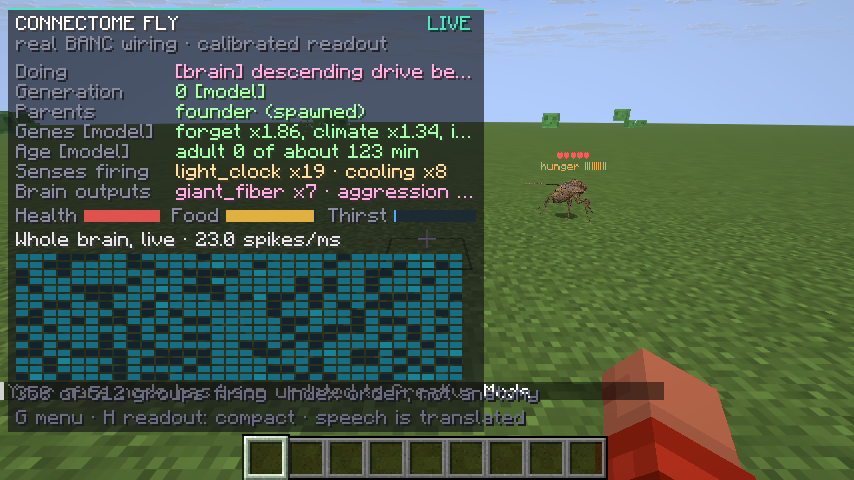
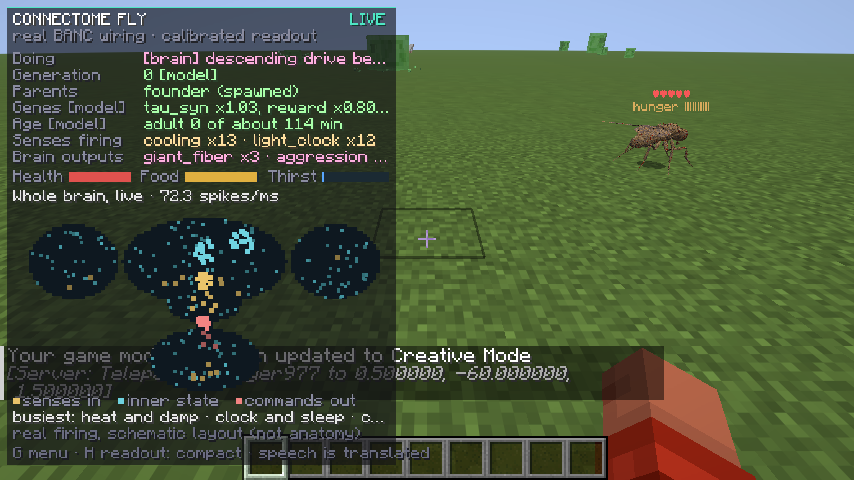
Brain picture in the readout (named regions from identified neurons, live), fix G and H key codes for 26.3 input, key test
Claude-Session: https://claude.ai/code/session_01LChwCBr4nFoxPfyeu3pZom

diff --git a/src/client/java/io/flyproject/connectomefly/client/BrainPicture.java b/src/client/java/io/flyproject/connectomefly/client/BrainPicture.java
@@ -1,0 +1,172 @@
+package io.flyproject.connectomefly.client;
+
+import io.flyproject.connectomefly.neural.BrainRegions;
+import java.util.Random;
+import net.minecraft.client.gui.Font;
+import net.minecraft.client.gui.GuiGraphicsExtractor;
+
+/**
+ * The readout's live brain picture: a schematic fly nervous system seen from the front (two optic lobes, the
+ * central brain, the neck, the nerve cord in the body) with dots that light up from the running brain.
+ * What is real: every dot's brightness comes from the firing of real neurons in the last fraction of a second.
+ * What is not: where the dots sit. The connectome data shipped with the mod has no neuron positions, so the
+ * layout is a drawing, and the readout says so.
+ */
+public final class BrainPicture {
+   public static final int W = 236;
+   public static final int H = 112;
+   // silhouette: ellipses {cx, cy, rx, ry}
+   private static final int[][] SHAPES = {{118, 32, 50, 27}, {38, 32, 27, 23}, {198, 32, 27, 23}, {118, 58, 22, 11}, {118, 70, 5, 6}, {118, 92, 34, 19}};
+   private static final int[] KIND_COLOR = {0xFFE9C46A, 0xFF6FD3E0, 0xFFF28482};
+   private static final int DOTS = 16;
+   private static int[] mapX;
+   private static int[] mapY;
+   private static int[][] dotX;
+   private static int[][] dotY;
+
+   private BrainPicture() {
+   }
+
+   private static boolean inside(int x, int y) {
+      for (int[] s : SHAPES) {
+         double dx = (x - s[0]) / (double)s[2];
+         double dy = (y - s[1]) / (double)s[3];
+         if (dx * dx + dy * dy <= 1.0) {
+            return true;
+         }
+      }
+
+      return false;
+   }
+
+   private static void layout(int bins) {
+      if (mapX != null && mapX.length == bins) {
+         return;
+      }
+
+      Random r = new Random(158262L);
+      mapX = new int[bins];
+      mapY = new int[bins];
+
+      for (int i = 0; i < bins; i++) {
+         int x;
+         int y;
+
+         do {
+            x = 8 + r.nextInt(W - 16);
+            y = 4 + r.nextInt(H - 6);
+         } while (!inside(x, y));
+
+         mapX[i] = x;
+         mapY[i] = y;
+      }
+
+      BrainRegions.Region[] rg = BrainRegions.REGIONS;
+      dotX = new int[rg.length][DOTS];
+      dotY = new int[rg.length][DOTS];
+
+      for (int k = 0; k < rg.length; k++) {
+         for (int j = 0; j < DOTS; j++) {
+            double a = r.nextDouble() * Math.PI * 2.0;
+            double d = Math.sqrt(r.nextDouble()) * rg[k].r();
+            dotX[k][j] = rg[k].x() + (int)Math.round(Math.cos(a) * d);
+            dotY[k][j] = rg[k].y() + (int)Math.round(Math.sin(a) * d * 0.9);
+         }
+      }
+   }
+
+   private static int scale(int argb, float f) {
+      int r = (int)((argb >> 16 & 0xFF) * f);
+      int g = (int)((argb >> 8 & 0xFF) * f);
+      int b = (int)((argb & 0xFF) * f);
+      return 0xFF000000 | r << 16 | g << 8 | b;
+   }
+
+   /** Draws the picture with its top-left at (x, y) and returns the names of the busiest regions, e.g. "left eye · wings". */
+   public static String draw(GuiGraphicsExtractor ctx, int x, int y, String map, String regions) {
+      layout(map.length());
+      // silhouette, two-pixel rows
+      for (int row = 0; row < H; row += 2) {
+         int start = -1;
+
+         for (int col = 0; col <= W; col += 2) {
+            boolean in = col < W && inside(col, row);
+            if (in && start < 0) {
+               start = col;
+            } else if (!in && start >= 0) {
+               ctx.fill(x + start, y + row, x + col, y + row + 2, 0xFF0E1820);
+               start = -1;
+            }
+         }
+      }
+
+      long tick = System.currentTimeMillis() / 110L;
+      // the whole brain: 512 groups of about 309 neurons each, as faint sparks
+      for (int i = 0; i < map.length(); i++) {
+         int level = map.charAt(i) - 'a';
+         if (level > 0) {
+            long h = (i * 0x9E3779B97F4A7C15L ^ tick * 0xC2B2AE3D27D4EB4FL) >>> 40;
+            if ((int)(h % 16L) < level + 4) {
+               float f = 0.5F + 0.5F * Math.min(1.0F, level / 10.0F);
+               ctx.fill(x + mapX[i], y + mapY[i], x + mapX[i] + 2, y + mapY[i] + 2, scale(0xFF5AC8D8, f));
+            }
+         }
+      }
+
+      // named regions: more and brighter dots the faster their neurons fire
+      BrainRegions.Region[] rg = BrainRegions.REGIONS;
+      int best1 = -1;
+      int best2 = -1;
+      int best3 = -1;
+
+      for (int k = 0; k < rg.length && k < regions.length(); k++) {
+         int level = regions.charAt(k) - 'a';
+         if (level <= 0) {
+            continue;
+         }
+
+         if (best1 < 0 || level > regions.charAt(best1) - 'a') {
+            best3 = best2;
+            best2 = best1;
+            best1 = k;
+         } else if (best2 < 0 || level > regions.charAt(best2) - 'a') {
+            best3 = best2;
+            best2 = k;
+         } else if (best3 < 0 || level > regions.charAt(best3) - 'a') {
+            best3 = k;
+         }
+
+         int color = KIND_COLOR[rg[k].kind()];
+
+         for (int j = 0; j < DOTS; j++) {
+            long h = ((k * 31L + j) * 0x9E3779B97F4A7C15L ^ tick * 0xD6E8FEB86659FD93L) >>> 40;
+            if ((int)(h % 15L) < level) {
+               float f = 0.55F + 0.45F * Math.min(1.0F, level / 12.0F);
+               ctx.fill(x + dotX[k][j] - 1, y + dotY[k][j] - 1, x + dotX[k][j] + 2, y + dotY[k][j] + 2, scale(color, f));
+            }
+         }
+      }
+
+      StringBuilder top = new StringBuilder();
+
+      for (int k : new int[]{best1, best2, best3}) {
+         if (k >= 0) {
+            top.append(top.length() > 0 ? " · " : "").append(rg[k].name());
+         }
+      }
+
+      return top.toString();
+   }
+
+   /** The three-colour key under the picture. */
+   public static void legend(GuiGraphicsExtractor ctx, Font tr, int x, int y) {
+      String[] names = {"senses in", "inner state", "commands out"};
+      int cx = x;
+
+      for (int i = 0; i < 3; i++) {
+         ctx.fill(cx, y + 2, cx + 4, y + 6, KIND_COLOR[i]);
+         ctx.text(tr, names[i], cx + 6, y, -7697248);
+         cx += tr.width(names[i]) + 16;
+      }
+   }
+}

diff --git a/src/main/java/io/flyproject/connectomefly/neural/BrainRegions.java b/src/main/java/io/flyproject/connectomefly/neural/BrainRegions.java
@@ -1,0 +1,63 @@
+package io.flyproject.connectomefly.neural;
+
+/**
+ * Named groups of real neurons for the readout's brain picture. Each region is a set of the mod's sensory channels
+ * (brain_channels.json) and output populations (brain_outputs.json), so the ACTIVITY shown is that of real, identified
+ * neurons. The POSITIONS in the picture are a schematic of a fly's nervous system; the data has no neuron coordinates.
+ */
+public final class BrainRegions {
+   public record Region(String name, int kind, int x, int y, int r, String[] channels, String[] outputs) {}
+
+   /** kind: 0 = senses coming in, 1 = internal state, 2 = commands and muscles going out */
+   public static final Region[] REGIONS = {
+      new Region("left eye", 0, 38, 32, 19, new String[]{"visual", "motion_prog_left", "motion_reg_left", "small_object_left", "landmark_left"}, new String[]{"lc_small_left", "lc_bar_left", "hs_left", "vs_left"}),
+      new Region("right eye", 0, 198, 32, 19, new String[]{"visual", "motion_prog_right", "motion_reg_right", "small_object_right", "landmark_right"}, new String[]{"lc_small_right", "lc_bar_right", "hs_right", "vs_right"}),
+      new Region("smell", 0, 102, 47, 8, new String[]{"olf_food", "olf_fruit", "olf_co2", "pheromone"}, new String[0]),
+      new Region("hearing and wind", 0, 134, 47, 8, new String[]{"auditory", "song", "wind"}, new String[0]),
+      new Region("heat and damp", 0, 118, 44, 5, new String[]{"heating", "cooling", "humid", "dry"}, new String[0]),
+      new Region("memory (mushroom body)", 1, 96, 22, 10, new String[]{"reward", "punishment"}, new String[]{"mbon_avoid", "mbon_approach", "pam", "ppl1"}),
+      new Region("compass", 1, 118, 26, 8, new String[]{"pen_left", "pen_right"}, new String[]{"epg", "pfl3_left", "pfl3_right"}),
+      new Region("clock and sleep", 1, 141, 20, 8, new String[]{"light_clock", "clock_morning", "clock_evening", "sleep_pressure"}, new String[]{"clock", "clock_morning", "clock_evening", "dfb_sleep"}),
+      new Region("courtship and aggression", 1, 140, 35, 6, new String[]{"song_pc1", "aggression_pc1"}, new String[]{"pc1_receptive", "pc1_aggr", "vpoen"}),
+      new Region("taste and feeding", 0, 118, 59, 10, new String[]{"gust_sugar", "taste_sugar_labellum", "taste_bitter_labellum", "taste_water", "nutrient"}, new String[]{"mn_proboscis", "mn_pharynx", "ipc"}),
+      new Region("commands to the body", 2, 118, 70, 4, new String[0], new String[]{"dn_turn_left", "dn_turn_right", "dn_giant_fiber", "dn_backward", "dn_courtship", "dn_aggression", "dn_egg_laying", "dn_p13", "mn_neck"}),
+      new Region("wings", 2, 118, 81, 8, new String[0], new String[]{"mn_wing_power", "mn_wing_steer", "mn_haltere"}),
+      new Region("left legs", 2, 102, 91, 9, new String[0], new String[]{"mn_leg_front_left", "mn_leg_middle_left", "mn_leg_hind_left"}),
+      new Region("right legs", 2, 134, 91, 9, new String[0], new String[]{"mn_leg_front_right", "mn_leg_middle_right", "mn_leg_hind_right"}),
+      new Region("escape jump", 2, 118, 90, 4, new String[0], new String[]{"mn_jump"}),
+      new Region("touch and pain", 0, 118, 100, 8, new String[]{"tactile", "aversive", "taste_sugar_leg", "taste_bitter_leg"}, new String[0]),
+      new Region("egg laying", 2, 118, 106, 3, new String[0], new String[]{"mn_ovulation"}),
+   };
+
+   private BrainRegions() {
+   }
+
+   /** One character per region: 'a' = silent up to 'p' = about 13 Hz or more per neuron (log scale), busiest member of the region. */
+   public static String encode(WholeBrain.Data d, WholeBrain.Loco l) {
+      char[] c = new char[REGIONS.length];
+
+      for (int i = 0; i < c.length; i++) {
+         Region r = REGIONS[i];
+         float hz = 0.0F;
+
+         for (String ch : r.channels) {
+            int k = d.channel(ch);
+            if (k >= 0 && k < l.chanSpikes.length && d.chanIdx[k].length > 0) {
+               hz = Math.max(hz, l.chanSpikes[k] * 1000.0F / d.chanIdx[k].length);
+            }
+         }
+
+         for (String o : r.outputs) {
+            int k = d.out(o);
+            if (k >= 0 && k < l.outRate.length && d.outIdx[k].length > 0) {
+               hz = Math.max(hz, l.outRate[k] * 1000.0F / d.outIdx[k].length);
+            }
+         }
+
+         int level = (int)Math.round(4.0 * Math.log(1.0 + hz) / Math.log(2.0));
+         c[i] = (char)(97 + Math.max(0, Math.min(15, level)));
+      }
+
+      return new String(c);
+   }
+}

diff --git a/src/main/java/io/flyproject/connectomefly/entity/ConnectomeFlyEntity.java b/src/main/java/io/flyproject/connectomefly/entity/ConnectomeFlyEntity.java
@@ -68,6 +68,7 @@ public class ConnectomeFlyEntity extends PathfinderMob {
    private static final EntityDataAccessor<Byte> BODY = SynchedEntityData.defineId(ConnectomeFlyEntity.class, EntityDataSerializers.BYTE);
    private static final EntityDataAccessor<Byte> SEX = SynchedEntityData.defineId(ConnectomeFlyEntity.class, EntityDataSerializers.BYTE);
    private static final EntityDataAccessor<Byte> ANIM = SynchedEntityData.defineId(ConnectomeFlyEntity.class, EntityDataSerializers.BYTE);
+   private static final EntityDataAccessor<String> BRAIN_REGIONS = SynchedEntityData.defineId(ConnectomeFlyEntity.class, EntityDataSerializers.STRING);
    private static final EntityDataAccessor<String> BRAIN_MAP = SynchedEntityData.defineId(ConnectomeFlyEntity.class, EntityDataSerializers.STRING);
    private static final EntityDataAccessor<String> HUD = SynchedEntityData.defineId(ConnectomeFlyEntity.class, EntityDataSerializers.STRING);
    private static final EntityDataAccessor<Byte> SURFACE = SynchedEntityData.defineId(ConnectomeFlyEntity.class, EntityDataSerializers.BYTE);
@@ -311,6 +312,7 @@ public class ConnectomeFlyEntity extends PathfinderMob {
       builder.define(ANIM, (byte)0);
       builder.define(HUD, "");
       builder.define(BRAIN_MAP, "");
+      builder.define(BRAIN_REGIONS, "");
       builder.define(HUNGER, 20.0F);
       builder.define(GROWTH, 108000);
       builder.define(NEURO_LEGS, 0);
@@ -808,6 +810,11 @@ public class ConnectomeFlyEntity extends PathfinderMob {
       return (String)this.entityData.get(BRAIN_MAP);
    }
 
+   /** One character per named region of BrainRegions.REGIONS, same scale as the map. Empty when no whole brain runs. */
+   public String getBrainRegions() {
+      return (String)this.entityData.get(BRAIN_REGIONS);
+   }
+
    private void brainMapTick() {
       if (this.tickCount % 4 == 0) {
          WholeBrain.Loco l = this.whole == null ? null : this.whole.loco();
@@ -825,6 +832,11 @@ public class ConnectomeFlyEntity extends PathfinderMob {
 
          if (!m.equals(this.entityData.get(BRAIN_MAP))) {
             this.entityData.set(BRAIN_MAP, m);
+         }
+
+         String rg = l != null && this.whole.dataOrNull() != null && l.outRate.length > 0 ? io.flyproject.connectomefly.neural.BrainRegions.encode(this.whole.dataOrNull(), l) : "";
+         if (!rg.equals(this.entityData.get(BRAIN_REGIONS))) {
+            this.entityData.set(BRAIN_REGIONS, rg);
          }
       }
    }

diff --git a/src/client/java/io/flyproject/flygenetics/test/AutoTest.java b/src/client/java/io/flyproject/flygenetics/test/AutoTest.java
@@ -60,6 +60,21 @@ public class AutoTest implements ClientModInitializer {
             System.out.println("[flygenetics autotest] done");
             c.stop();
          }
+      } else if (mode.equals("keys")) {
+         // press G and H the way the game does when the keys are hit, and report what happened
+         int t = ticks;
+         com.mojang.blaze3d.platform.InputConstants.Key g = com.mojang.blaze3d.platform.InputConstants.Type.KEYBOARD.getOrCreate(com.mojang.blaze3d.platform.InputConstants.KEY_G);
+         com.mojang.blaze3d.platform.InputConstants.Key h = com.mojang.blaze3d.platform.InputConstants.Type.KEYBOARD.getOrCreate(com.mojang.blaze3d.platform.InputConstants.KEY_H);
+         if (t == 40) { io.flyproject.connectomefly.client.FlyHud.setEnabled(true); io.flyproject.connectomefly.client.FlyHud.setDetail(false); }
+         if (t == 50) net.minecraft.client.KeyMapping.click(g);
+         if (t == 54) System.out.println("[flygenetics autotest] after G the screen is " + (c.gui.screen() == null ? "none" : c.gui.screen().getClass().getSimpleName()));
+         if (t == 56) c.gui.setScreen(null);
+         if (t == 60 || t == 64 || t == 68) net.minecraft.client.KeyMapping.click(h);
+         if (t == 62 || t == 66 || t == 70) System.out.println("[flygenetics autotest] after H the readout is " + io.flyproject.connectomefly.client.FlyHud.modeName());
+         if (t == 80) {
+            System.out.println("[flygenetics autotest] done");
+            c.stop();
+         }
       } else if (mode.equals("menu")) {
          // the new readout (compact and full) and the menu screen; one menu button is pressed for real
          int t = ticks;
@@ -72,7 +87,9 @@ public class AutoTest implements ClientModInitializer {
             MinecraftServer srv = c.getSingleplayerServer();
             srv.execute(() -> srv.getPlayerList().getPlayers().forEach(pl -> srv.getPlayerList().op(pl.nameAndId())));
          }
+         if (t == 120) run(c, "tp @a 0.5 -60 1.5 0 30");
          if (t == 200) shot(c, "hud-compact.png");
+         if (t == 204) shot(c, "hud-compact-b.png");
          if (t == 210) io.flyproject.connectomefly.client.FlyHud.setDetail(true);
          if (t == 260) shot(c, "hud-full.png");
          if (t == 270) { io.flyproject.connectomefly.client.FlyHud.setDetail(false); c.gui.setScreen(new io.flyproject.connectomefly.client.FlyMenuScreen()); }

diff --git a/src/client/java/io/flyproject/connectomefly/client/FlyHud.java b/src/client/java/io/flyproject/connectomefly/client/FlyHud.java
@@ -350,11 +350,8 @@ public final class FlyHud {
 
                Font tr = mc.font;
                String map = male ? "" : fly.getBrainMap();
-               int cols = 32;
-               int rows = map.isEmpty() ? 0 : (map.length() + cols - 1) / cols;
-               int cw = 7;
-               int ch = 4;
-               int mapH = rows == 0 ? 0 : 12 + rows * ch + 12;
+               String regions = male ? "" : fly.getBrainRegions();
+               int mapH = map.isEmpty() ? 0 : 11 + BrainPicture.H + 2 + 10 + 10 + 11;
                int x = 6;
                int y = 6;
                int h = 22 + lines.size() * 10 + 14 + mapH + 12 + 4;
@@ -391,25 +388,22 @@ public final class FlyHud {
                }
 
                yy += 12;
-               if (rows > 0) {
-                  // the whole brain, live: one cell per group of about 309 neurons
+               if (!map.isEmpty()) {
+                  // the whole brain, live
                   ctx.text(tr, "Whole brain, live · " + brain + " spikes/ms", x + 2, yy, -1513240);
                   yy += 11;
-                  int active = 0;
-
-                  for (int i = 0; i < map.length(); i++) {
-                     int level = map.charAt(i) - 'a';
-                     if (level > 0) {
-                        active++;
-                     }
-
-                     int cx = x + 2 + i % cols * cw;
-                     int cy = yy + i / cols * ch;
-                     ctx.fill(cx, cy, cx + cw - 1, cy + ch - 1, heat(level));
+                  String busiest = BrainPicture.draw(ctx, x, yy, map, regions);
+                  yy += BrainPicture.H + 2;
+                  BrainPicture.legend(ctx, tr, x + 2, yy);
+                  yy += 10;
+                  String b = "busiest: " + (busiest.isEmpty() ? "background only" : busiest);
+                  if (tr.width(b) > 230) {
+                     b = tr.plainSubstrByWidth(b, 224) + "…";
                   }
 
-                  yy += rows * ch + 2;
-                  ctx.text(tr, active + " of " + map.length() + " groups firing · index order, not anatomy", x + 2, yy, -9802624);
+                  ctx.text(tr, b, x + 2, yy, -1513240);
+                  yy += 10;
+                  ctx.text(tr, "real firing, schematic layout (not anatomy)", x + 2, yy, -9802624);
                   yy += 11;
                }
 

diff --git a/src/client/java/io/flyproject/connectomefly/client/ConnectomeFlyClient.java b/src/client/java/io/flyproject/connectomefly/client/ConnectomeFlyClient.java
@@ -27,10 +27,10 @@ public class ConnectomeFlyClient implements ClientModInitializer {
       FlyHud.register();
       FlyHud.loadSize();
       net.minecraft.client.KeyMapping hudKey = net.fabricmc.fabric.api.client.keymapping.v1.KeyMappingHelper.registerKeyMapping(
-         new net.minecraft.client.KeyMapping("key.connectomefly.hud", 72, net.minecraft.client.KeyMapping.Category.MISC)
+         new net.minecraft.client.KeyMapping("key.connectomefly.readout", com.mojang.blaze3d.platform.InputConstants.KEY_H, net.minecraft.client.KeyMapping.Category.MISC)
       );
       net.minecraft.client.KeyMapping menuKey = net.fabricmc.fabric.api.client.keymapping.v1.KeyMappingHelper.registerKeyMapping(
-         new net.minecraft.client.KeyMapping("key.connectomefly.menu", 71, net.minecraft.client.KeyMapping.Category.MISC)
+         new net.minecraft.client.KeyMapping("key.connectomefly.lab", com.mojang.blaze3d.platform.InputConstants.KEY_G, net.minecraft.client.KeyMapping.Category.MISC)
       );
       ClientTickEvents.END_CLIENT_TICK.register(client -> {
          while (menuKey.consumeClick()) {

diff --git a/docs/mobs/README.md b/docs/mobs/README.md
@@ -11,7 +11,7 @@
 - **G** opens the Fly Lab menu: choose a body (fly, villager, cow, or search any mob), sex, Spawn here, give the chosen body to the nearest creature, readout mode and size, how many whole brains run at once, adult life, growth speed, population cap, the death and hunger rules, inherited memory, statistics, gene list, field guide, the experiment boxes, credits. Each button sends the matching command, so the world needs cheats on. Value buttons set that value; the game answers in chat. The menu does not show the current values.
 - **H** cycles the readout: compact, full, off. The choice is remembered. Both keys can be changed in Controls.
 - **Compact readout:** what it is doing, generation, parents, genes, age, senses firing, brain outputs, bars for health, food and thirst, and a live map of the whole brain.
-- **Brain map:** 512 cells, each the mean firing rate of about 309 neurons, updated five times a second from the running brain (dark = silent, brighter = faster, up to 13 Hz and above). The neurons are in the data's index order, **not laid out by anatomy**; the readout says so. Males have no map (they run the small courtship circuit).
+- **Brain picture:** a schematic fly nervous system seen from the front (two optic lobes, central brain, neck, nerve cord). Faint sparks are the whole brain: 512 groups of about 309 neurons each. Coloured dots are 17 named regions (eyes, smell, hearing, memory, compass, clock and sleep, courtship, taste, commands to the body, wings, legs, jump, touch, egg laying), built from the mod's own lists of identified neurons; yellow = senses in, cyan = inner state, pink = commands out. More and brighter dots mean faster firing, refreshed five times a second, and the three busiest regions are named underneath. **The firing is real; the positions are a drawing**, because the data has no neuron coordinates, and the readout says so. Males have no picture (they run the small courtship circuit).
 - The card shrinks to fit if it would run off the bottom of the window.
 
 ## Checked (26.3 client under software rendering)
@@ -23,7 +23,8 @@
 | `@e[type=cow]` with fly-brained cows present | matched nothing |
 | Changing the nearest creature's body | worked |
 | Menu | opens, fits a 427 x 240 GUI (`menu.png`); a spawn and a setting sent the way the buttons send them both worked for an operator player |
-| Readout | compact and full both fit (`hud-compact-with-brain-map.png`, `hud-full.png`); the brain map changes with activity (354 to 400 of 512 groups firing at rest) |
+| Readout | compact and full both fit (`hud-compact-with-brain-map.png`, `hud-full.png`); the brain picture shows regions lit at rest (clock, compass, commands) |
+| G and H keys | a simulated G press opened the menu; three H presses went full, off, compact |
 | Earlier tests | breeding, reload and headless checks still pass |
 
 ## Not checked
@@ -32,5 +33,5 @@
 - Whether each body moves sensibly: speeds and food-finding distances are the fly's; a big body may look odd or get stuck.
 - Flying bodies in flight; water mobs in water (an axolotl body still lives on land like the fly).
 - How real mobs treat the borrowed bodies (golems, zombies, wolves).
-- The H and G keys themselves (key presses were not simulated), and whether G or H clash with other mods' keys.
+- Whether G or H clash with other mods' keys. (The first build of the menu used key codes from the old input system, so G and H did nothing; fixed, and a test now presses both the way the game does.)
 - A real graphics card: you have now seen the fly on your machine, but none of this build has run there yet.
